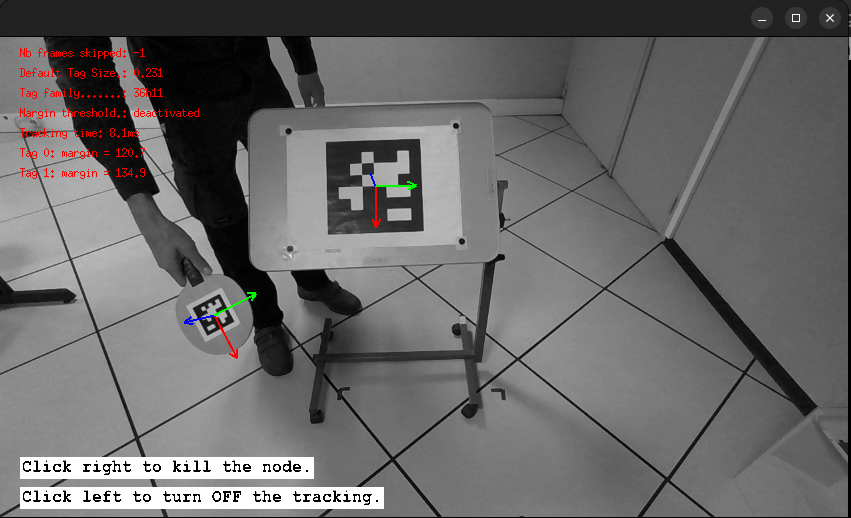
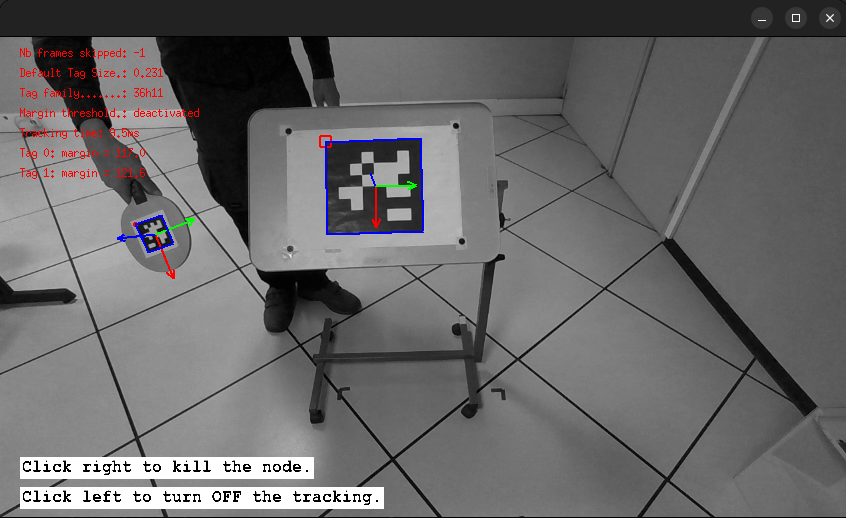
[TUTO] [DOC] Added images for the tutorial on live images and updated images of the tutorial based on a rosbag

diff --git a/visp_tk_tutorials/launch/apriltag_tracker_bag_launch.py b/visp_tk_tutorials/launch/apriltag_tracker_bag_launch.py
@@ -52,7 +52,7 @@ def generate_launch_description():
           ),
         DeclareLaunchArgument(
             "display_tag",
-            default_value="false",
+            default_value="true",
             description="Display the detected tags in a ViSP window",
         ),
       # END_APRILTAG_ARGUMENTS

diff --git a/visp_tk_tutorials/launch/apriltag_tracker_live_launch.py b/visp_tk_tutorials/launch/apriltag_tracker_live_launch.py
@@ -59,7 +59,7 @@ def generate_launch_description():
         ),
         DeclareLaunchArgument(
             "display_tag",
-            default_value="false",
+            default_value="true",
             description="Display the detected tags in a ViSP window",
         ),
         # END_APRILTAG_ARGUMENTS

diff --git a/visp_tk_tutorials/doc/apriltag_tutorial.rst b/visp_tk_tutorials/doc/apriltag_tutorial.rst
@@ -55,6 +55,20 @@ arguments, please run:
 
   ros2 launch visp_tk_tutorials apriltag_tracker_live_launch.py --show-args
 
+When you first start the launch file, you should see something similar to the following image:
+
+.. figure:: images/apriltag_live_start.png
+   :width: 90%
+   :align: center
+
+After left clicking on the image, the detector will be turned on, and you should see the result of
+the detection on screen, which sould look like the following image (please be careful of using the same tag
+family than the one set as the launch argument `tag_family`):
+
+.. figure:: images/apriltag_live_detect.png
+   :width: 90%
+   :align: center
+
 Code explanation
 ++++++++++++++++
 
